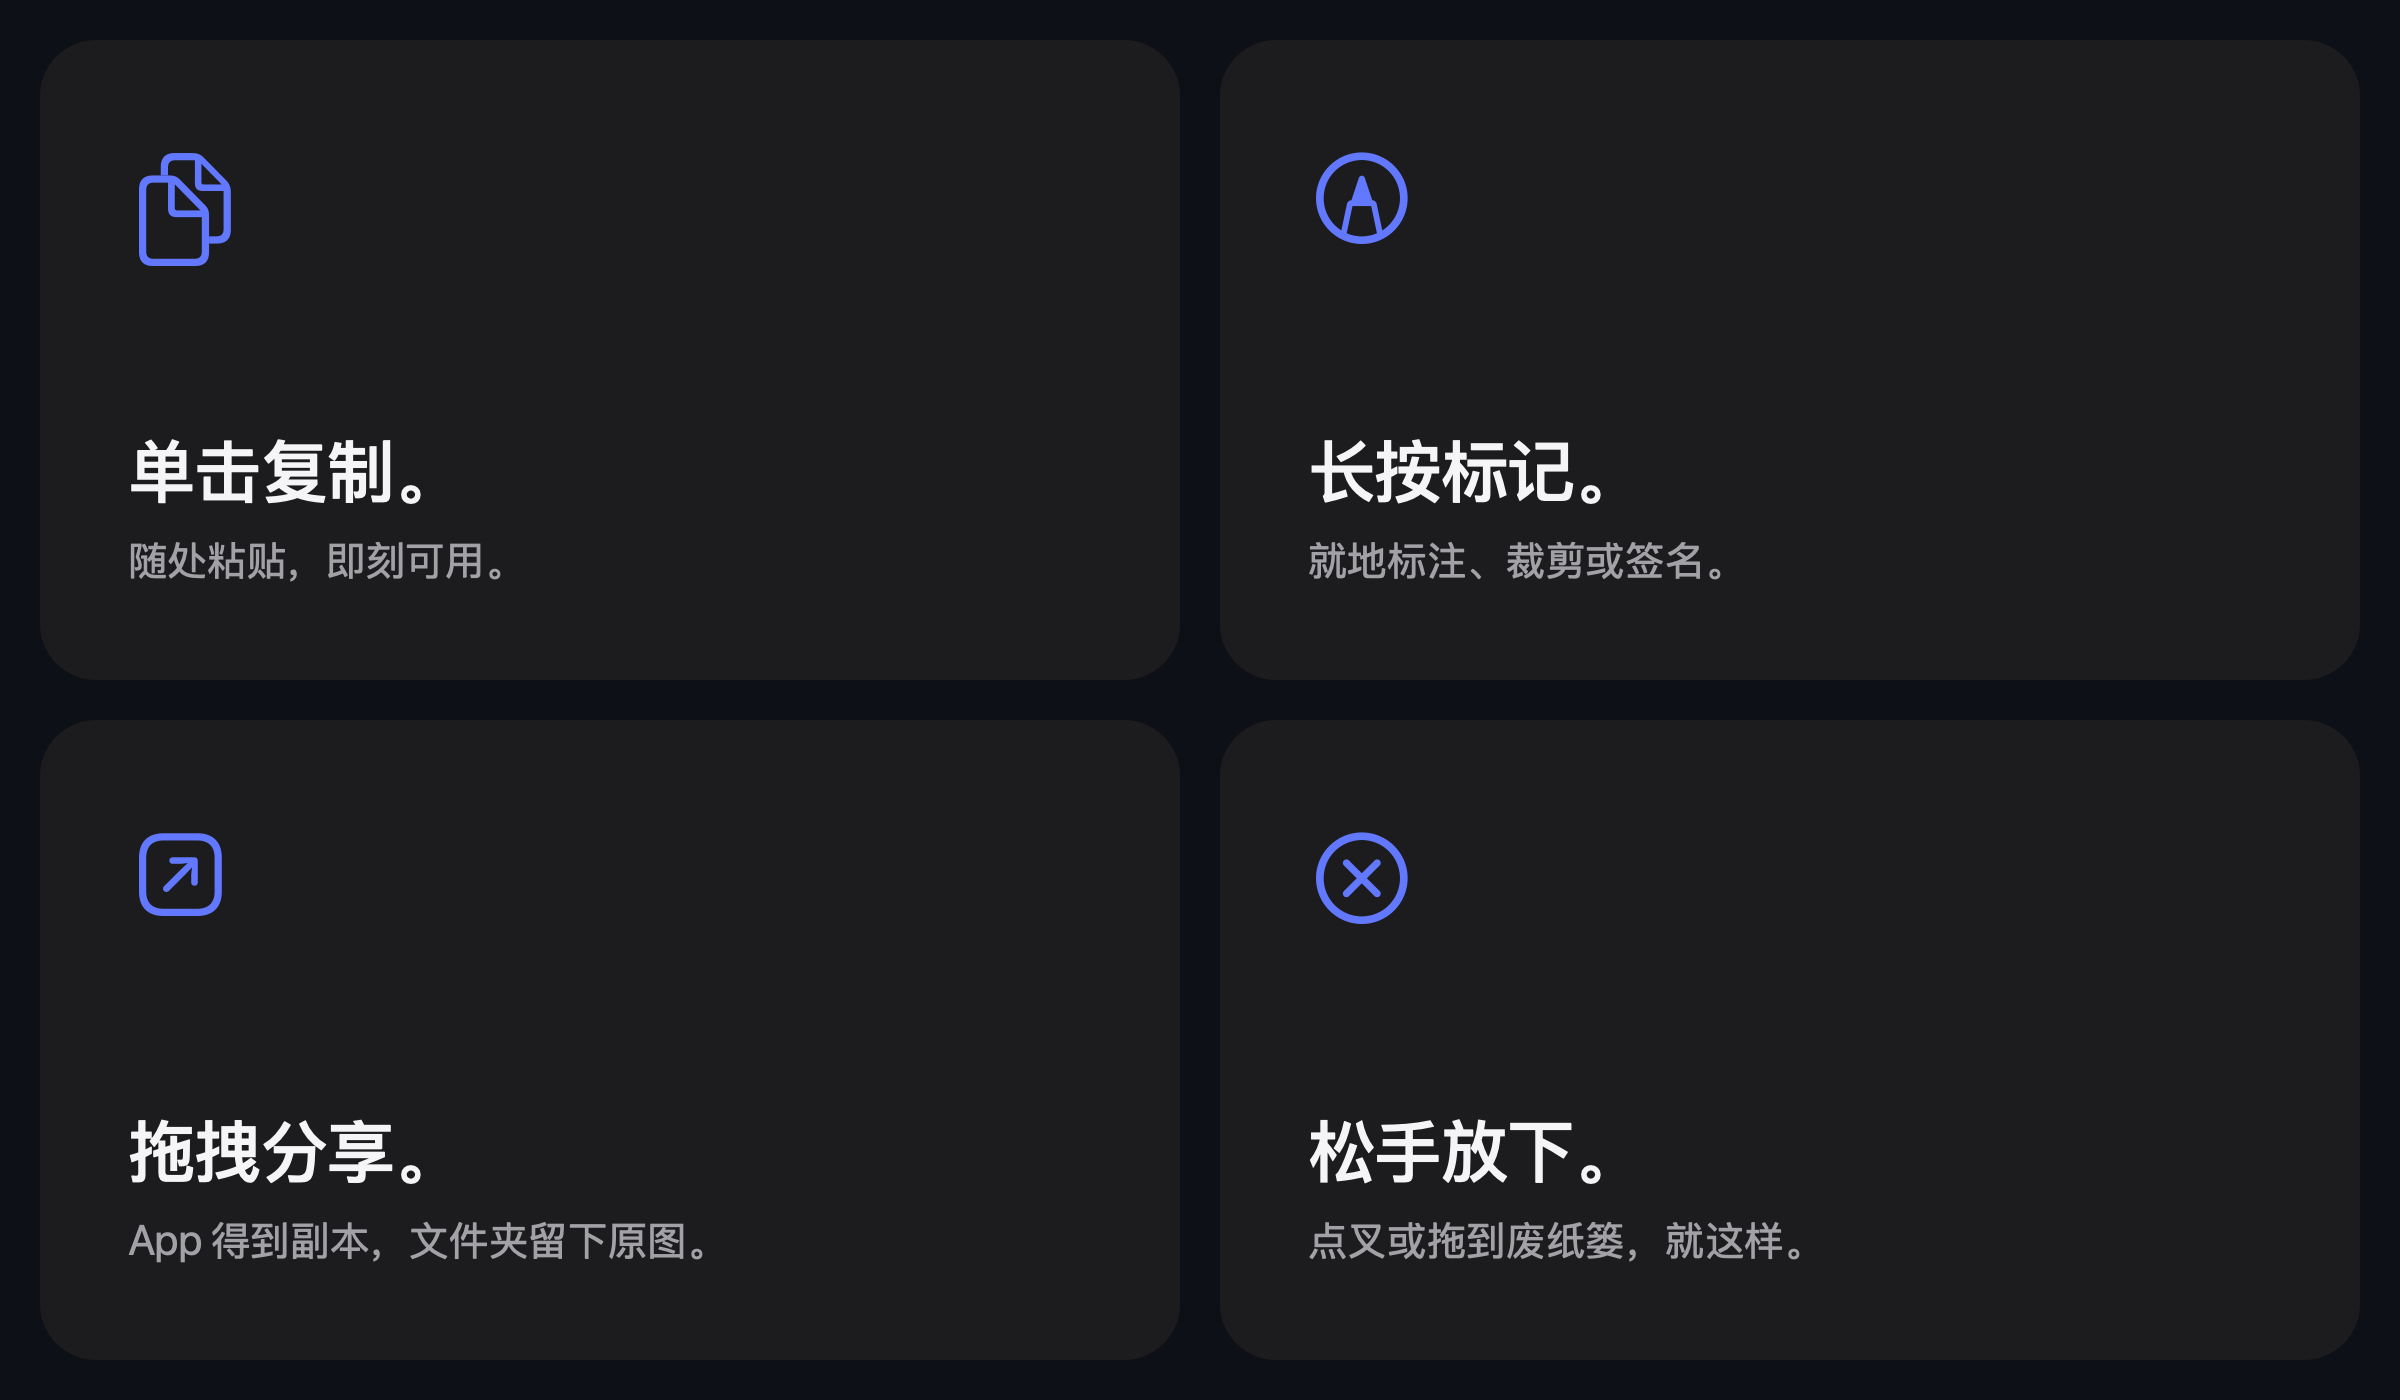
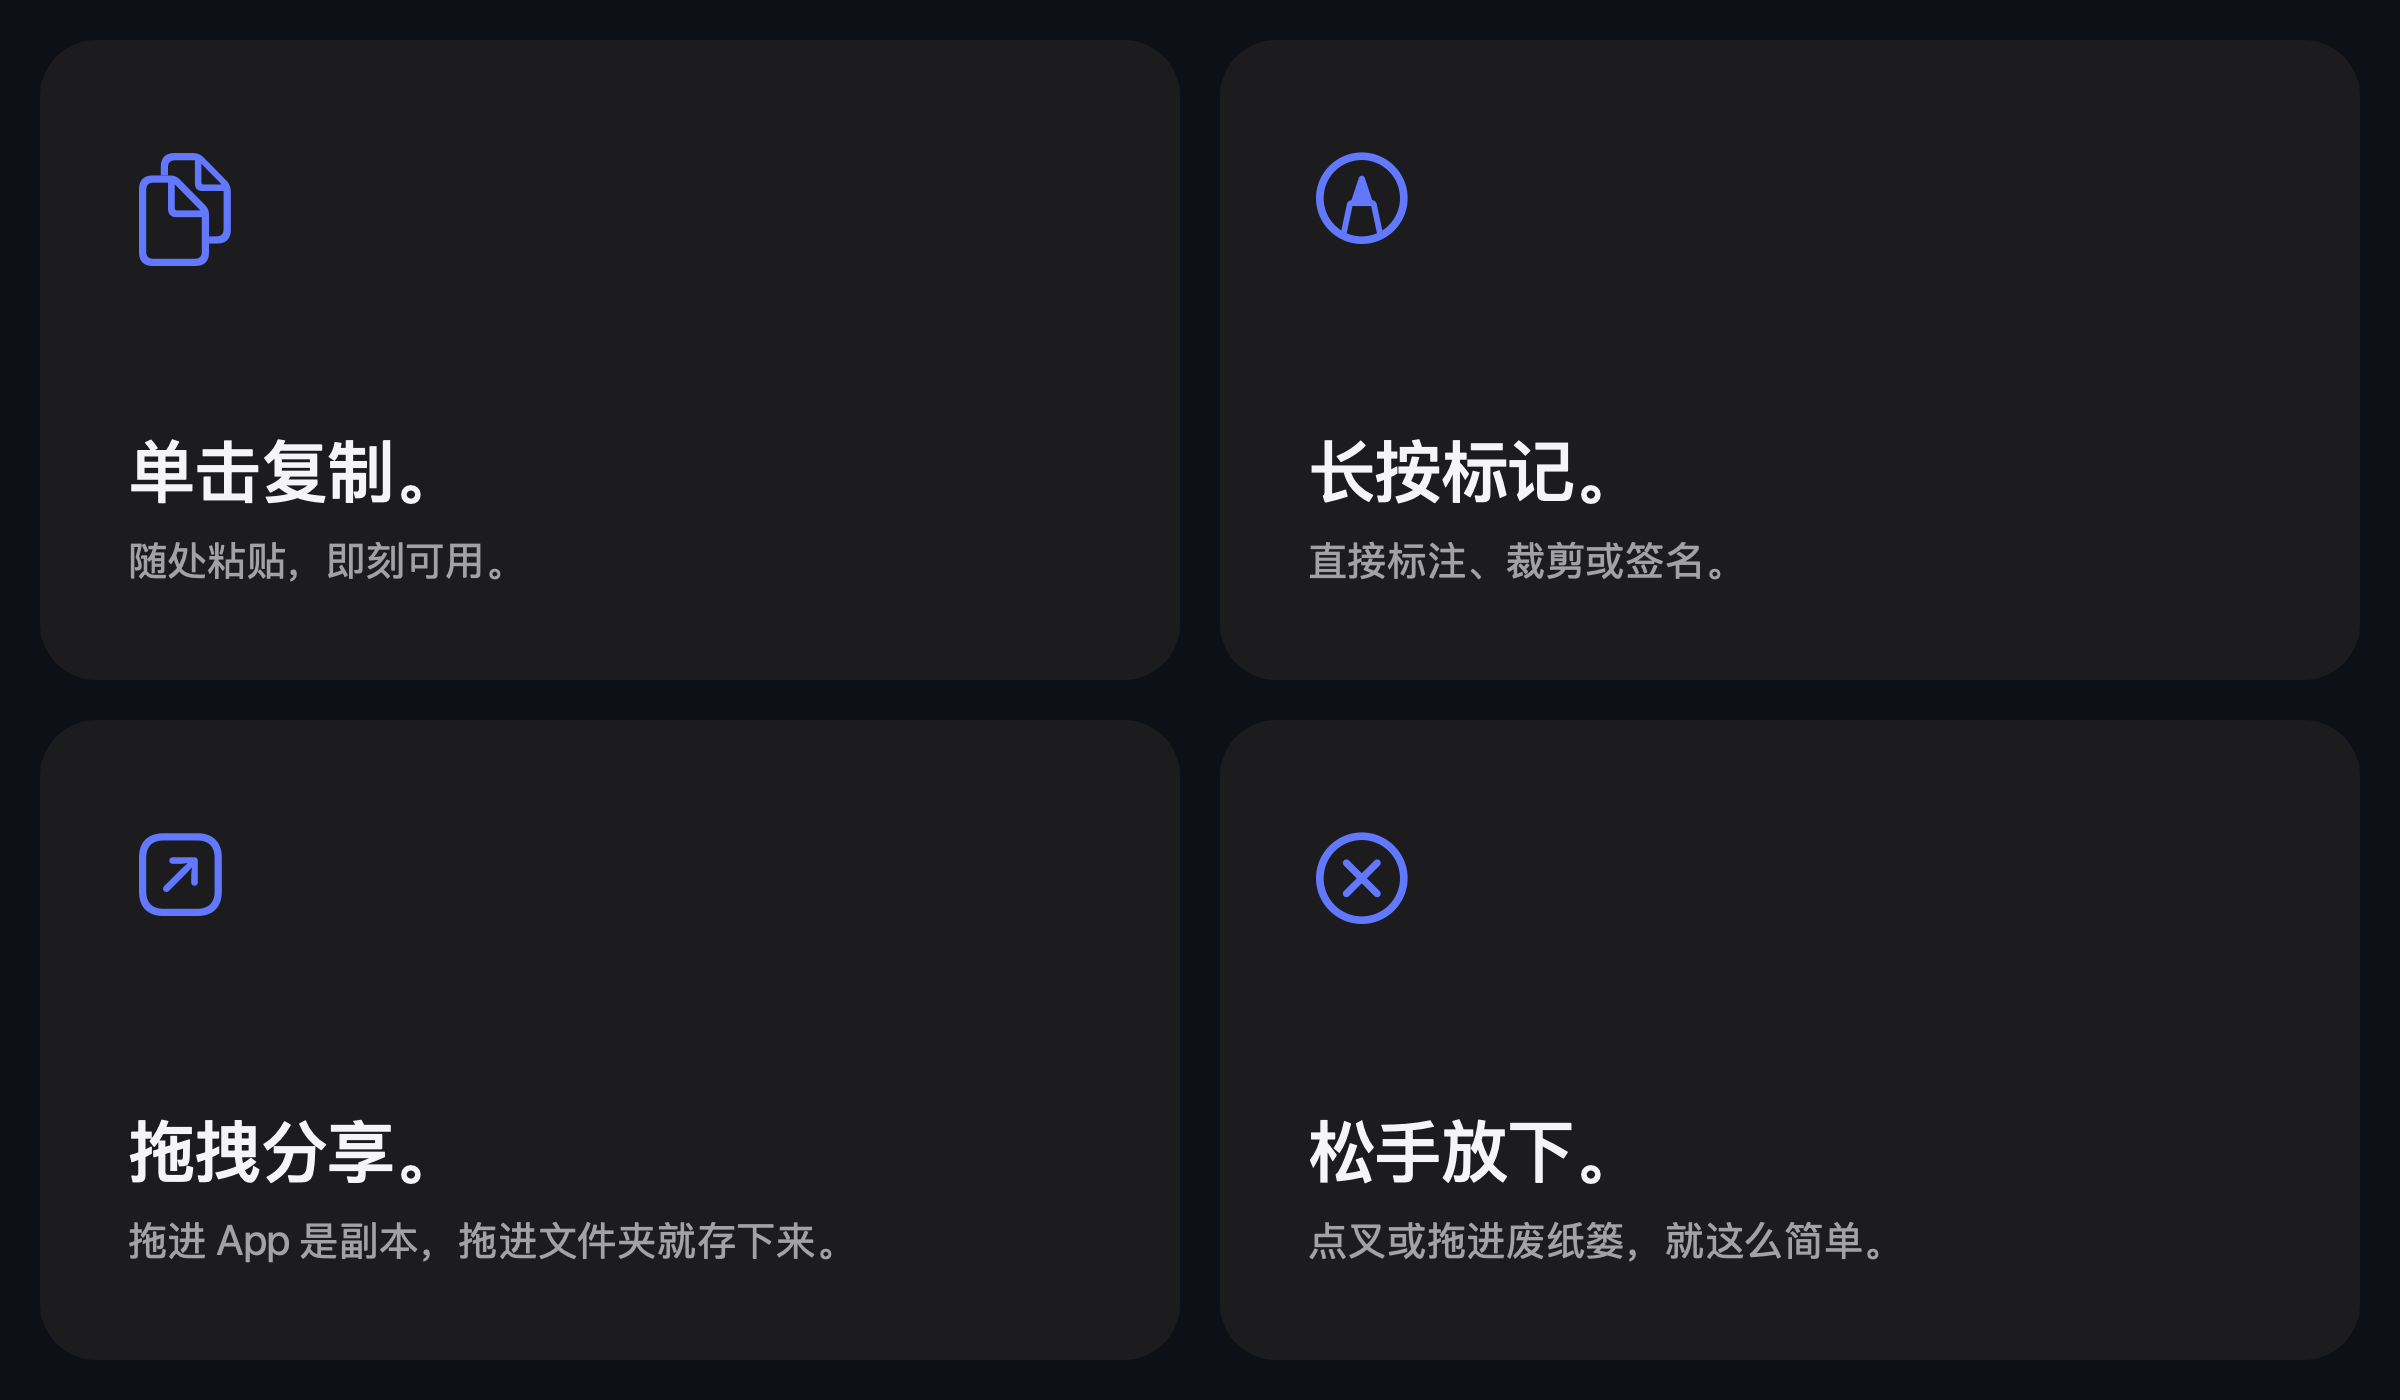
More natural Chinese in the gesture images

diff --git a/scripts/make-readme-art.swift b/scripts/make-readme-art.swift
@@ -35,11 +35,11 @@ let translations: [String: [String: String]] = [
         "Click to copy.": "单击复制。",
         "Paste it anywhere, instantly.": "随处粘贴，即刻可用。",
         "Hold to mark up.": "长按标记。",
-        "Annotate, crop or sign in place.": "就地标注、裁剪或签名。",
+        "Annotate, crop or sign in place.": "直接标注、裁剪或签名。",
         "Drag to share.": "拖拽分享。",
-        "Apps get a copy. Folders keep it.": "App 得到副本，文件夹留下原图。",
+        "Apps get a copy. Folders keep it.": "拖进 App 是副本，拖进文件夹就存下来。",
         "Let it go.": "松手放下。",
-        "The cross or the Trash. That\u{2019}s it.": "点叉或拖到废纸篓，就这样。",
+        "The cross or the Trash. That\u{2019}s it.": "点叉或拖进废纸篓，就这么简单。",
     ],
 ]
 
